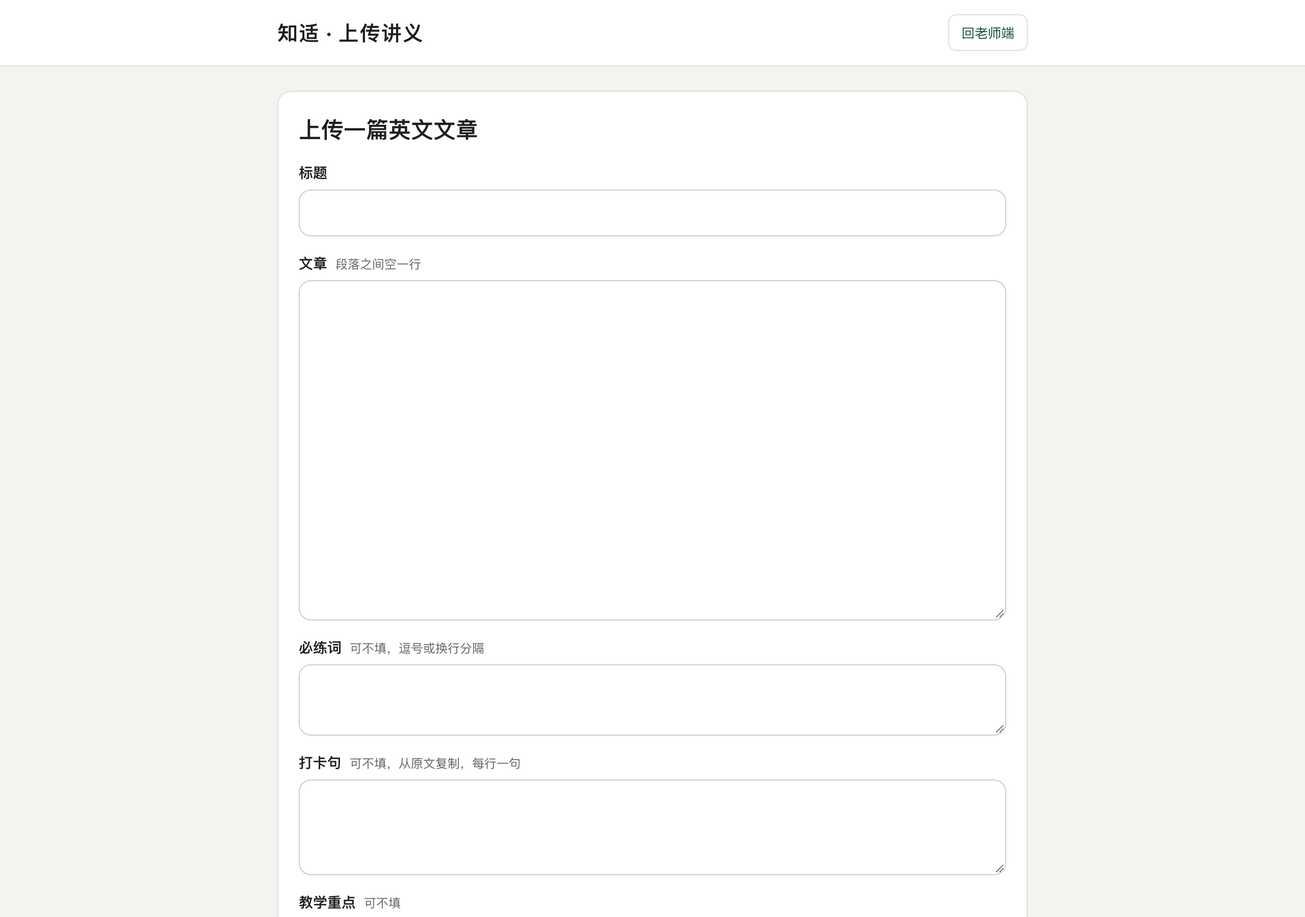
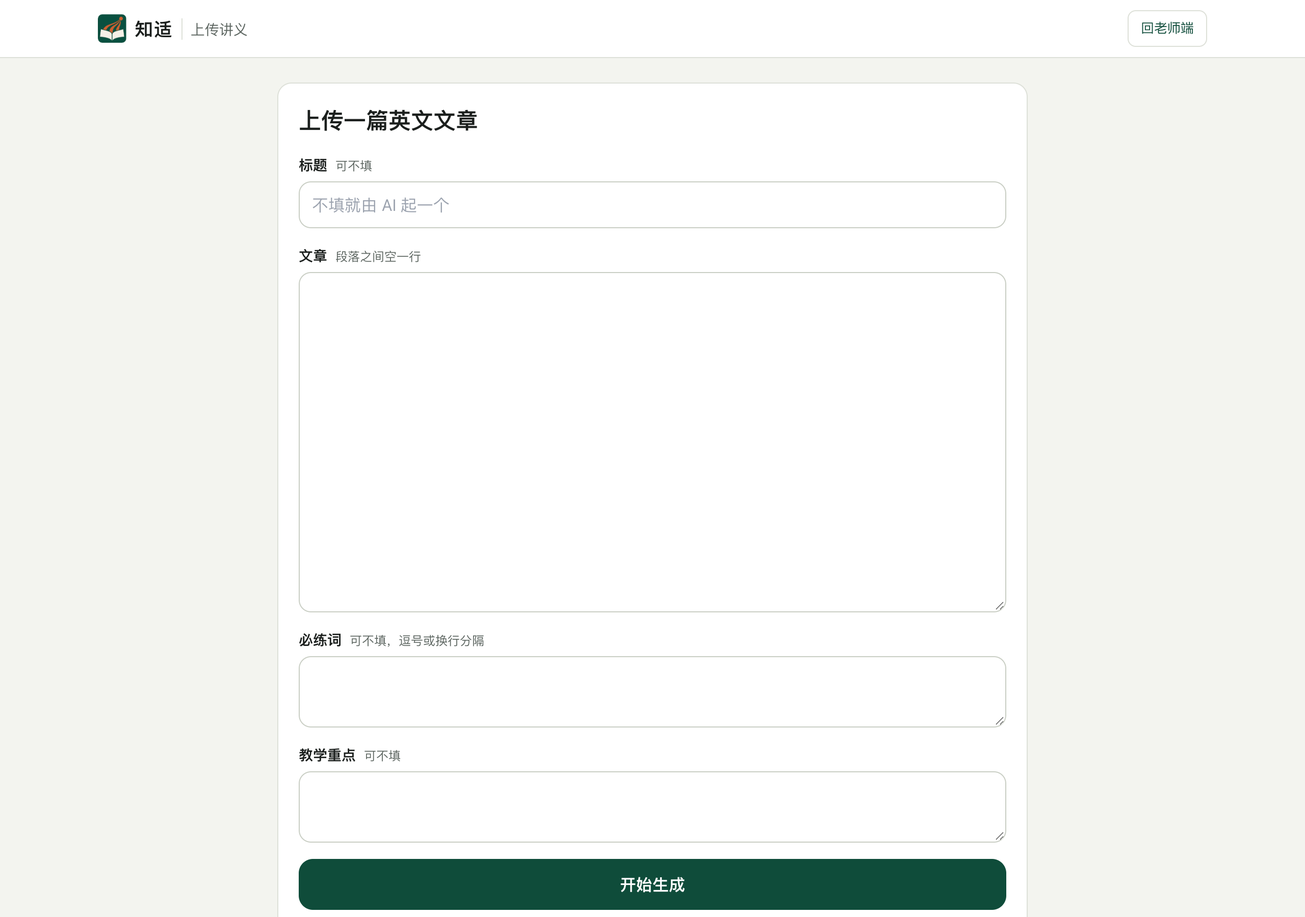
Article structure for #20: what each paragraph does (skim) and moves to borrow (writing)
- Handout gets an optional `structure` block (paragraph role + one-line summary, writing moves with verbatim example quotes), AI-drafted in pipeline/ai-edits.json via a new `handout` edit target that may only touch `structure`
- Validator: paragraphs match the article, every example quote is verbatim from its sentence, no grammar terms
- Skim: after all gist questions are right, 「这篇文章是怎么写的」 shows the skeleton (提出观点 → 让步 → 反驳 → 给理由) and one line per paragraph; shown only after answering because the summaries give the gists away
- Writing: 「可以借的写法」 with three moves and their original sentences, above the text box
- Both labelled AI 起草，供参考; only the demo handout has it
- Home: the tagline's last words stay on one line on phones
- Screens 06/07/09 retaken, new 10; docs, teammate spot-check list, log

diff --git a/tests/structure.test.ts b/tests/structure.test.ts
@@ -1,0 +1,64 @@
+// 文章是怎么写的 + 可以借的写法（issue #20）：讲义的 structure 块，AI 起草，套用和校验规则
+import { describe, expect, it } from 'vitest'
+import socialMedia from '../data/handouts/social-media.json'
+import { applyHumanEdits } from '../pipeline/human-edits'
+import { validateHandout } from '../pipeline/validate'
+import { Handout } from '../shared/schema'
+import { miniHandout } from './fixtures/mini-handout'
+
+const AI = { by: 'llm', model: 'claude-opus-5-5', reviewedBy: 'agent 复核' } as const
+const clone = () => JSON.parse(JSON.stringify(miniHandout)) as typeof miniHandout
+const errorsOf = (h: unknown) => validateHandout(h).filter((i) => i.level === 'error').map((i) => i.message)
+const structure = {
+  paragraphs: [
+    { n: 1, role: '提出观点', summary: '有人想禁手机，但全面禁令可能适得其反' },
+    { n: 2, role: '给理由', summary: '证据不足，不如教学生用好手机' },
+  ],
+  moves: [{ name: '让步再反驳', how: '先说对方的担心，再用“Yet”转回你的看法。', examples: [{ sentenceId: 'S03', quote: 'Yet, pending clearer evidence' }] }],
+}
+const withStructure = (value: unknown) => {
+  const h = clone()
+  const log = applyHumanEdits(h, [{ target: 'handout', id: 'mini-phones', field: 'structure', value, by: 'Claude' }], AI)
+  return { h, log }
+}
+
+describe('文章结构（structure）', () => {
+  it('合格的结构通过校验，整块记上 AI 来源', () => {
+    const { h, log } = withStructure(structure)
+    expect(log).toEqual(['已修改：handout mini-phones structure（Claude）'])
+    expect(h.structure).toEqual({ ...structure, provenance: AI })
+    expect(errorsOf(h)).toEqual([])
+  })
+
+  it('例句不是那一句的原话、句子不存在、段落和原文对不上、出现语法术语，都报错', () => {
+    const bad = {
+      paragraphs: [{ n: 1, role: '提出观点', summary: '主语是禁令' }],
+      moves: [{ name: '让步再反驳', how: '先让步', examples: [{ sentenceId: 'S03', quote: 'Yet pending clearer evidence' }, { sentenceId: 'S99', quote: 'Yet' }] }],
+    }
+    const errs = errorsOf(withStructure(bad).h).join('\n')
+    expect(errs).toMatch(/例句不是 S03 的原话：Yet pending clearer evidence/)
+    expect(errs).toMatch(/例句 S99 不存在/)
+    expect(errs).toMatch(/段落对不上原文：结构里是 1，原文是 1,2/)
+    expect(errs).toMatch(/文章结构里出现语法术语「主语」/)
+  })
+
+  it('讲义本身只能改 structure；讲义 id 不对就找不到', () => {
+    const h = clone()
+    const log = applyHumanEdits(h, [
+      { target: 'handout', id: 'mini-phones', field: 'title', value: '改掉标题', by: 'Claude' },
+      { target: 'handout', id: 'other', field: 'structure', value: structure, by: 'Claude' },
+    ])
+    expect(log[0]).toMatch(/^拒绝/)
+    expect(log[1]).toMatch(/^未找到/)
+    expect(h.title).toBe(miniHandout.title)
+    expect(h.structure).toBeUndefined()
+  })
+
+  it('演示讲义：每段都有作用和概括，写法的例句都是原话', () => {
+    const real = Handout.parse(socialMedia)
+    expect(real.structure?.paragraphs.map((p) => p.n)).toEqual([1, 2, 3, 4, 5, 6])
+    expect(real.structure?.moves.length).toBeGreaterThan(0)
+    expect(real.structure?.provenance).toEqual(AI)
+    expect(validateHandout(real).filter((i) => i.where === 'structure')).toEqual([]) // 其他出处校验要老师讲义原文，这里只看结构
+  })
+})

diff --git a/src/pages/student/Skim.tsx b/src/pages/student/Skim.tsx
@@ -2,8 +2,9 @@
 // 先通读全文（老师 Day 1：「请快速通读全文」），读完再答每段一道引导问题。选项可以随便改，全部选好后一起提交；
 // 提交后答对的锁定，答错一次，在题目下面给出这一段原文并标出主题句；再错给英文要点。错题换个答案再提交。
 // 电脑上答题时左边是全文、右边是题目，方便对照；主题句直接在左边的全文里高亮。
+// 全部答对后给「这篇文章是怎么写的」（每段的作用，有 structure 的讲义才有；概括会透露段意，所以答完才给）。
 import { useEffect, useMemo, useRef, useState } from 'react'
-import type { Handout, Paragraph, Sentence } from '../../../shared/schema'
+import type { ArticleStructure, Handout, Paragraph, Sentence } from '../../../shared/schema'
 import type { StudentState } from '../../engine/types'
 import { Choices, Icon, Pill, btn, card, serifText } from '../../components/ui'
 import type { Act } from '../../lib/store'
@@ -166,9 +167,12 @@ export function Skim({ h, state, act, onNext }: { h: Handout; state: StudentStat
         })}
 
         {open.length === 0 ? (
-          <button type="button" className={btn.primary} onClick={onNext}>
-            去练我的生词
-          </button>
+          <>
+            {h.structure && <StructureMap s={h.structure} />}
+            <button type="button" className={btn.primary} onClick={onNext}>
+              去练我的生词
+            </button>
+          </>
         ) : (
           <>
             <button type="button" className={btn.primary} disabled={left > 0} onClick={submit}>
@@ -179,6 +183,38 @@ export function Skim({ h, state, act, onNext }: { h: Handout; state: StudentStat
         )}
       </div>
     </div>
+  )
+}
+
+// 这篇文章是怎么写的：上面一行是整篇的骨架（相邻作用相同的段合成一步），下面按段竖着排，每段的作用和一句概括
+function StructureMap({ s }: { s: ArticleStructure }) {
+  const skeleton = s.paragraphs.map((p) => p.role).filter((r, i, all) => r !== all[i - 1])
+  return (
+    <section className={`${card} flex flex-col gap-3 p-4`}>
+      <div className="flex flex-wrap items-center gap-2">
+        <h2 className="m-0 text-[16px] font-bold">这篇文章是怎么写的</h2>
+        <Pill>AI 起草，供参考</Pill>
+      </div>
+      <p className="m-0 text-[15px] font-semibold text-primary">{skeleton.join(' → ')}</p>
+      <ol className="m-0 flex list-none flex-col p-0">
+        {s.paragraphs.map((p, i) => (
+          <li key={p.n} className="flex gap-3">
+            <span aria-hidden="true" className="flex w-2.5 shrink-0 flex-col items-center">
+              <span className="mt-[7px] h-2.5 w-2.5 rounded-full bg-primary" />
+              {i < s.paragraphs.length - 1 && <span className="w-px flex-1 bg-line-strong" />}
+            </span>
+            <span className="flex flex-col gap-0.5 pb-3">
+              <span className="text-[14px]">
+                <span className="font-semibold">第 {p.n} 段</span>
+                <span className="ml-2 font-semibold text-primary">{p.role}</span>
+              </span>
+              <span className="text-[14px] leading-relaxed text-ink2">{p.summary}</span>
+            </span>
+          </li>
+        ))}
+      </ol>
+      {s.moves.length > 0 && <span className="text-[13px] text-muted">到「写作」那一步，还有原文里可以借的写法。</span>}
+    </section>
   )
 }
 

diff --git a/pipeline/human-edits.ts b/pipeline/human-edits.ts
@@ -6,9 +6,9 @@ import type { Handout, Provenance } from '../shared/schema'
 import { patternFor } from './text-utils'
 
 export const HumanEdit = z.object({
-  target: z.enum(['sentence', 'paragraph', 'word', 'expression']),
-  id: z.string(), // 句子 S24 / 段落 2 / 词 lemma / 表达 E09
-  field: z.string(), // 点号路径，如 ladder.l1、question、zh、guess、gist、gistEn；remove 表示删掉这一条
+  target: z.enum(['sentence', 'paragraph', 'word', 'expression', 'handout']),
+  id: z.string(), // 句子 S24 / 段落 2 / 词 lemma / 表达 E09 / 讲义 id（handout 只能改 structure）
+  field: z.string(), // 点号路径，如 ladder.l1、question、zh、guess、gist、gistEn、structure；remove 表示删掉这一条
   value: z.unknown(),
   by: z.string(), // 谁改的
   note: z.string().optional(),
@@ -52,7 +52,9 @@ export function applyHumanEdits(h: Handout, edits: HumanEdit[], prov?: Provenanc
       continue
     }
     const obj: Record<string, unknown> | undefined =
-      e.target === 'sentence'
+      e.target === 'handout'
+        ? (e.id === h.id ? (h as unknown as Record<string, unknown>) : undefined)
+        : e.target === 'sentence'
         ? (h.sentences.find((x) => x.id === e.id) as unknown as Record<string, unknown>)
         : e.target === 'paragraph'
           ? (h.paragraphs.find((x) => String(x.n) === e.id) as unknown as Record<string, unknown>)
@@ -63,17 +65,17 @@ export function applyHumanEdits(h: Handout, edits: HumanEdit[], prov?: Provenanc
       log.push(`未找到：${label}（${e.by}）`)
       continue
     }
-    // 句子的 text 是原文，不能改；表达的 text 是我们整理的写法，可以改（改了要重新生成匹配规则）
-    if ((e.field === 'text' && e.target !== 'expression') || e.field === 'id') {
+    // 句子的 text 是原文，不能改；表达的 text 是我们整理的写法，可以改（改了要重新生成匹配规则）。讲义本身只能改 structure
+    const top = e.field.split('.')[0]
+    if ((e.field === 'text' && e.target !== 'expression') || e.field === 'id' || (e.target === 'handout' && top !== 'structure')) {
       log.push(`拒绝：${label}，原文和编号不能改（${e.by}）`)
       continue
     }
     setPath(obj, e.field, e.value)
     if (e.target === 'expression' && e.field === 'text') obj.pattern = patternFor(String(e.value))
-    // 被改动的那一块记上「人工」来源；整块新写的题（如 guess）、拆句（breakdown）原来没有来源，也补上
-    const top = e.field.split('.')[0]
+    // 被改动的那一块记上「人工」来源；整块新写的题（如 guess）、拆句（breakdown）、文章结构（structure）原来没有来源，也补上
     const block = obj[top]
-    if (block && typeof block === 'object' && ('provenance' in (block as object) || 'prompt' in (block as object) || top === 'breakdown')) (block as { provenance: Provenance }).provenance = human
+    if (block && typeof block === 'object' && ('provenance' in (block as object) || 'prompt' in (block as object) || top === 'breakdown' || top === 'structure')) (block as { provenance: Provenance }).provenance = human
     if (e.target === 'paragraph') (obj as { provenance: Provenance }).provenance = human
     log.push(`已修改：${label}（${e.by}${e.note ? `：${e.note}` : ''}）`)
   }

diff --git a/src/pages/student/Writing.tsx b/src/pages/student/Writing.tsx
@@ -2,10 +2,11 @@
 // 先用规则逐个显示「用上了 / 还没用上」，再请 AI 判断用得对不对、指出最多 3 处可能的语法问题；
 // AI 只说对不对、引用原文例句，语法问题只引你写的几个词、说是哪一类，不替你改写。
 // 写的句子存在本机（按讲义和学生），切到别的步骤再回来还在；检查结果不存。
+// 讲义有 structure 时，写之前给「可以借的写法」：怎么写 + 原文里的例句（原话）。
 import { useRef, useState } from 'react'
 import type { Handout } from '../../../shared/schema'
 import { expressionUsed } from '../../engine'
-import { btn, card } from '../../components/ui'
+import { Pill, btn, card } from '../../components/ui'
 import { readLS, writeLS, type Act } from '../../lib/store'
 import { checkWriting, exampleOf, type CheckOutput } from '../../lib/writing'
 
@@ -59,6 +60,27 @@ export function Writing({ h, sid, ids, act, onNext }: { h: Handout; sid: string;
           </>
         )}
       </div>
+
+      {!!h.structure?.moves.length && (
+        <section className={`${card} flex flex-col gap-3 px-4 py-3.5`}>
+          <div className="flex flex-wrap items-center gap-2">
+            <h2 className="m-0 text-[15px] font-bold">可以借的写法</h2>
+            <Pill>AI 起草，供参考</Pill>
+          </div>
+          {h.structure.moves.map((m) => (
+            <div key={m.name} className="flex flex-col gap-1 border-t border-line-soft pt-3">
+              <span className="text-[15px] font-semibold">{m.name}</span>
+              <span className="text-[14px] leading-relaxed text-ink2">{m.how}</span>
+              {m.examples.map((x) => (
+                <span key={x.sentenceId} className="font-serif text-[15px] leading-relaxed">
+                  “{x.quote}”
+                  <span className="ml-1.5 whitespace-nowrap font-sans text-[12px] text-muted">原文第 {h.sentences.find((s) => s.id === x.sentenceId)?.paragraph} 段</span>
+                </span>
+              ))}
+            </div>
+          ))}
+        </section>
+      )}
 
       <label htmlFor="essay" className="text-[14px] font-semibold">
         你的句子

diff --git a/pipeline/validate.ts b/pipeline/validate.ts
@@ -92,6 +92,26 @@ export function validateHandout(input: unknown, rawByDay?: Record<number, string
     checkQuestion(`${where} gist`, p.gist)
   }
 
+  if (h.structure) {
+    // 每段一条、和原文段落对上；写法的例句必须是那一句的原话；学生端文案不出现语法术语
+    const where = 'structure'
+    const nums = [...new Set(h.sentences.map((s) => s.paragraph))].sort((a, b) => a - b)
+    const got = h.structure.paragraphs.map((p) => p.n)
+    if (got.join(',') !== nums.join(',')) err(where, `段落对不上原文：结构里是 ${got.join(',')}，原文是 ${nums.join(',')}`)
+    for (const p of h.structure.paragraphs) if (!p.role.trim() || !p.summary.trim()) err(where, `第 ${p.n} 段的作用或概括是空的`)
+    for (const m of h.structure.moves) {
+      for (const x of m.examples) {
+        const s = sentenceById.get(x.sentenceId)
+        if (!s) err(where, `写法「${m.name}」的例句 ${x.sentenceId} 不存在`)
+        else if (!x.quote.trim() || !s.text.includes(x.quote)) err(where, `写法「${m.name}」的例句不是 ${x.sentenceId} 的原话：${x.quote}`)
+      }
+    }
+    const term = hasGrammarTerm(
+      [...h.structure.paragraphs.flatMap((p) => [p.role, p.summary]), ...h.structure.moves.flatMap((m) => [m.name, m.how])].join(' '),
+    )
+    if (term) err(where, `文章结构里出现语法术语「${term}」`)
+  }
+
   for (const w of h.words) {
     const where = `word ${w.lemma}`
     for (const id of w.sentenceIds) {

diff --git a/tests/vocab.test.ts b/tests/vocab.test.ts
@@ -47,13 +47,18 @@ describe('真实讲义：每个词都有词性、英文释义和先猜一猜', (
 })
 
 describe('AI 补全（pipeline/ai-edits.json）', () => {
-  it('词只补 pos / en / guess，句子只补 breakdown（梯子第 2、3 步），署名和备注如实', () => {
+  it('词只补 pos / en / guess，句子只补 breakdown（梯子第 2、3 步），讲义只补 structure（文章结构），署名和备注如实', () => {
     for (const e of ai) {
       // 署名写清楚是 AI：Claude 起草、agent 复核，词汇部分又经 ChatGPT 复核；都还没人工抽查
       expect(e.by).toMatch(/^Claude 起草 \+ agent 复核.*（待队友 2 抽查）$/)
       if (e.target === 'sentence') {
         expect(e.field).toBe('breakdown')
         expect(e.note).toMatch(/^10-02 梯子第 2、3 步（issue #2 #3）/)
+        continue
+      }
+      if (e.target === 'handout') {
+        expect(e.field).toBe('structure')
+        expect(e.note).toMatch(/^10-02 文章是怎么写的.*（issue #20）$/)
         continue
       }
       expect(e.target).toBe('word')

diff --git a/shared/schema.ts b/shared/schema.ts
@@ -117,6 +117,20 @@ export const Expression = z.object({
 })
 export type Expression = z.infer<typeof Expression>
 
+// 文章是怎么写的（#20）：每段在全文里起什么作用，加上写作时可以借的写法（例句是原文原话）。AI 起草，只有演示讲义有
+export const ArticleStructure = z.object({
+  paragraphs: z.array(z.object({ n: z.number().int().min(1), role: z.string(), summary: z.string() })).min(1),
+  moves: z.array(
+    z.object({
+      name: z.string(),
+      how: z.string(),
+      examples: z.array(z.object({ sentenceId: z.string(), quote: z.string() })).min(1),
+    }),
+  ),
+  provenance: Provenance,
+})
+export type ArticleStructure = z.infer<typeof ArticleStructure>
+
 export const Handout = z.object({
   id: z.string(),
   title: z.string(),
@@ -129,6 +143,7 @@ export const Handout = z.object({
     prompt: z.string(),
     requiredExpressionIds: z.array(z.string()),
   }),
+  structure: ArticleStructure.optional(),
 })
 export type Handout = z.infer<typeof Handout>
 

diff --git a/src/pages/Home.tsx b/src/pages/Home.tsx
@@ -55,7 +55,9 @@ export default function Home() {
             <p className="m-0 text-[16px] leading-relaxed text-ink2 lg:text-[18px]">
               知适是一个读英文外刊讲义的工具：学生读老师的讲义，卡住时一步一步给提示；老师看到全班卡在哪、今天该点评谁。
             </p>
-            <p className="m-0 text-[14px] leading-relaxed text-muted">同一份讲义，原文一字不改，每个人拿到写给自己的梯子。</p>
+            <p className="m-0 text-[14px] leading-relaxed text-muted">
+              同一份讲义，原文一字不改，每个人拿到<span className="whitespace-nowrap">写给自己的梯子。</span>
+            </p>
             <div className="grid gap-3 pt-2 sm:grid-cols-2">
               <a href={demo ? '#/judge' : '#/student'} className={`${entry} border-transparent bg-primary text-white hover:bg-primary-hover`}>
                 <span className={entryName}>

diff --git a/AI_USAGE.md b/AI_USAGE.md
@@ -6,7 +6,7 @@
 
 | 工具 | 用途 | 范围 |
 |---|---|---|
-| Claude Code（Anthropic） | 写代码和测试；做方案调研和评审（模拟评委按评分标准打分）；画界面设计稿；对讲义内容做程序体检和独立复核；起草路演材料初稿；起草演示讲义词卡上 35 个词的词性和英文释义、34 道「先猜一猜」题，以及 21 架读懂梯子新的第 2 步（拆开：每一块的标签和说明）、第 3 步（译文）（10-02，见下文「人工做了什么」）；编写词汇卡里 5 个假词各一句例句和两个猜词选项（10-03）；按 `docs/AI对比截图.md` 的流程，在队长登录的浏览器里向豆包、Kimi、DeepSeek 发同样的两段话并截图、核对（10-02） | 大部分代码由 Claude Code 编写。产品方向、教学立场和取舍由团队决定，具体决策见 [MEMORY_LOG.md](MEMORY_LOG.md)，例如「先读懂意思，语法以后慢慢学」由队长提出，「材料由老师上传」「题目改成英文」「上传不设口令」由团队决定 |
+| Claude Code（Anthropic） | 写代码和测试；做方案调研和评审（模拟评委按评分标准打分）；画界面设计稿；对讲义内容做程序体检和独立复核；起草路演材料初稿；起草演示讲义词卡上 35 个词的词性和英文释义、34 道「先猜一猜」题，以及 21 架读懂梯子新的第 2 步（拆开：每一块的标签和说明）、第 3 步（译文）（10-02，见下文「人工做了什么」）；编写词汇卡里 5 个假词各一句例句和两个猜词选项（10-03）；起草演示讲义的「这篇文章是怎么写的」（6 段各自的作用和一句概括）和写作页「可以借的写法」（3 种写法，例句摘原文原话）（10-03）；按 `docs/AI对比截图.md` 的流程，在队长登录的浏览器里向豆包、Kimi、DeepSeek 发同样的两段话并截图、核对（10-02） | 大部分代码由 Claude Code 编写。产品方向、教学立场和取舍由团队决定，具体决策见 [MEMORY_LOG.md](MEMORY_LOG.md)，例如「先读懂意思，语法以后慢慢学」由队长提出，「材料由老师上传」「题目改成英文」「上传不设口令」由团队决定 |
 | ChatGPT（OpenAI） | 队友 2 校对讲义内容时，用它逐条复核模型起草的梯子、题目和注释；队长另请它复核 Claude 起草的词卡内容和梯子第 2、3 步（10-02；意见由 Claude 逐条判断，采纳大部分，和老师原文或第 1 步冲突的没采纳）；展位海报的插图 | 复核意见和 Claude 的意见有分歧时，由独立评审逐条裁定，最后由队长确认（见 `docs/校对复核.csv`）。海报提示词见 `docs/海报提示词.md` |
 | 飞书问卷 AI | 朋友试用问卷：按 `docs/朋友试用.md` 里的题目原文生成飞书问卷表单 | 只用来生成表单，题目不是它出的；生成后逐题对照题目原文核对过（MEMORY_LOG 10-02 12:00） |
 | Upscayl | 用 AI 把 logo 图片放大 4 倍（logo 是从队友提供的 logo 原图裁出的 `docs/assets/logo/logo-1024.png`） | 只放大分辨率，不改画面内容。海报方案里也写了用它放大 ChatGPT 画的插画（`docs/海报提示词.md`），最终的易拉宝是团队在 Canva 排的纯文字版，没有用插画 |
@@ -27,6 +27,7 @@
 - 演示讲义里模型起草的 121 条内容，由队友 2 逐条校对（借助 ChatGPT 复核），程序按规则体检，分歧交独立评审裁定，最后队长确认。结果以 231 条人工修订保存在 `pipeline/human-edits.json`，每次重新入库都会自动套用。其中题目的英文版由 Claude Code 按校对定稿的中文版翻译，再经独立复核，队长确认后入库。
 - **词卡的词性、英文释义和猜词题（10-02 补）还没经人工校对**：15 个核心词的词性和英文释义照老师 Day 1「核心词汇表」；其余 35 个词的词性和英文释义，以及 34 道新加的「先猜一猜」题（原有 16 道是队友 2 校对过的），由 Claude 起草，经几个独立 agent 核对，还没有人看过，队友 2 计划 10-03 抽查。Claude 起草的这些内容存在 `pipeline/ai-edits.json`，每次重新入库都会套用，在人工修订之前，所以人工改动会覆盖它。
 - **读懂梯子新的第 2、3 步（10-02 补）还没经人工校对**：演示讲义 21 架梯子的「拆开：每一块在说什么」（每块是原句原话，配一个大白话标签，有的再加一句简短的中文说明）和「译文」，由 Claude 起草，经几个独立 agent 和一个脚本核对（每块是不是原句里一字不差的片段、标签是不是规定的 7 个之一、有没有语法术语），还没有人看过；队长另请 ChatGPT 复核过（10-02，采纳大部分），ChatGPT 也是 AI，所以仍算没人工校对；队友 2 计划 10-03 和词卡一起抽查。和词卡补的内容一样存在 `pipeline/ai-edits.json`，在人工修订之前套用。第 1 步和难词中文是之前人工校对过的。
+- **「这篇文章是怎么写的」和「可以借的写法」（10-03，issue #20）由 Claude 起草，还没人工校对**：几个独立 agent 核对过段落作用和概括是否符合原文、例句是不是原文一字不差的片段；校验器也会检查例句是原话、段落对得上、没有语法术语。存在 `pipeline/ai-edits.json`（在人工修订之前套用），学生端标着「AI 起草，供参考」；队友 2 计划 10-03 一起抽查。只有演示讲义有，老师上传的文章没有。
 - **假词卡的例句和选项（10-03）由 Claude 编写，还没人看过**：本来就是编的、不在原文里（`src/engine/index.ts` 的 `FAKE_CARDS`），学生标完认识 / 不认识后会被告知。
 - 朋友试用问卷里两道翻译题（三步小测）由 Claude 按 `docs/三步小测.md` 的评分要点先打分，又让一个不看已有分数的 agent 独立盲评，前 8 份的 16 个分数完全一致（第 9 份两题都写「看不懂」，记 0 分）；队友抽查尚未完成（见 `docs/试用结果.md`）。
 - 讲义里的英文释义有两处语病（ingenious、cyberbully），经队长决定、查词典核对后改正。

diff --git a/docs/队友任务清单.md b/docs/队友任务清单.md
@@ -49,7 +49,7 @@
 - [ ] **PPT**：队友 1 按 [路演PPT大纲.md](路演PPT大纲.md) 做，提交时要交（PPT / PDF / HTML 都可以）。
 - [ ] **问卷收口**：飞书问卷（队长账号）停止收集，按最终结果更新 `docs/试用结果.md`，PPT、展位话术、视频里用到的数字跟着改。
 - [ ] **三步小测抽查**（队友 2）：抽查 Claude 按 [三步小测.md](三步小测.md) 评分要点打的分（`docs/试用结果.md` 第四节）；抽查完告诉 Claude，把各处写的「队友抽查尚未完成」改掉。
-- [ ] **词卡和梯子抽查**（队友 2）：10-02 词卡补了词性和英文释义，每个词都有「先猜一猜」。15 个核心词的词性和英文释义照老师 Day 1「核心词汇表」；**其余 35 个词的词性和英文释义、新加的 34 道猜词题（含 legislator、ingenious、draconian、cyberbully 这 4 个核心词的）**是 Claude 起草的，几个独立 agent 核对过，还没人看过，都在 `pipeline/ai-edits.json`。**21 架读懂梯子新的第 2、3 步**（「拆开：每一块在说什么」和「整句中文意思」）也一样：Claude 起草，agent 和脚本核对过（每块是不是原句原话、标签是不是规定的 7 个、有没有语法术语），也在 `pipeline/ai-edits.json`，队长已另请 ChatGPT 复核过（采纳了大部分，但它也是 AI，仍要人工抽查）。抽查：词性对不对；英文释义是不是像老师词汇表那样短、高中生看得懂；猜词题的正确选项是不是本文里的意思，另一个选项会不会也说得通；梯子每一块的标签和说明对不对，整句中文意思对不对、看得懂。要改的照校对表的老办法：让 Claude 导出校对表（`npm run review`；表里已经显示词性，Claude 起草的英文标成「英文（AI 起草，待抽查）」），在「结论 / 改成」两列填好发回，Claude 写进 `pipeline/human-edits.json`（每次入库在 AI 补全之后套用，会覆盖它）。词性要改的写在「备注」里交给 Claude（导入脚本不会把词性写回去）。梯子第 2、3 步：校对表里显示的已经是新的「拆开」「整句中文意思」（标着「AI 起草，待抽查」）；要改的写在「备注」里，或直接告诉 Claude（导入脚本不会把它们写回去）。英文释义要改的也写在「备注」里。抽查完告诉 Claude，把各处写的「还没人工校对」改成实际情况，比如「队友 2 抽查了 N 条，改了 M 条」，不要写成逐条校对。
+- [ ] **词卡和梯子抽查**（队友 2）：10-02 词卡补了词性和英文释义，每个词都有「先猜一猜」。15 个核心词的词性和英文释义照老师 Day 1「核心词汇表」；**其余 35 个词的词性和英文释义、新加的 34 道猜词题（含 legislator、ingenious、draconian、cyberbully 这 4 个核心词的）**是 Claude 起草的，几个独立 agent 核对过，还没人看过，都在 `pipeline/ai-edits.json`。**21 架读懂梯子新的第 2、3 步**（「拆开：每一块在说什么」和「译文」）也一样：Claude 起草，agent 和脚本核对过（每块是不是原句原话、标签是不是规定的 7 个、有没有语法术语），也在 `pipeline/ai-edits.json`，队长已另请 ChatGPT 复核过（采纳了大部分，但它也是 AI，仍要人工抽查）。抽查：词性对不对；英文释义是不是像老师词汇表那样短、高中生看得懂；猜词题的正确选项是不是本文里的意思，另一个选项会不会也说得通；梯子每一块的标签和说明对不对，译文对不对、看得懂。要改的照校对表的老办法：让 Claude 导出校对表（`npm run review`；表里已经显示词性，Claude 起草的英文标成「英文（AI 起草，待抽查）」），在「结论 / 改成」两列填好发回，Claude 写进 `pipeline/human-edits.json`（每次入库在 AI 补全之后套用，会覆盖它）。词性要改的写在「备注」里交给 Claude（导入脚本不会把词性写回去）。梯子第 2、3 步：校对表里显示的已经是新的「拆开」「译文」（标着「AI 起草，待抽查」）；要改的写在「备注」里，或直接告诉 Claude（导入脚本不会把它们写回去）。英文释义要改的也写在「备注」里。**文章结构（10-03，issue #20）**：粗读答完全部段意题后出现的「这篇文章是怎么写的」（6 段各自的作用和一句概括），和写作页的「可以借的写法」（3 种写法，例句摘原文原话），也是 Claude 起草、agent 核对过，在 `pipeline/ai-edits.json` 最后一条；不在校对表里，直接在网站上看，要改的告诉 Claude。抽查完告诉 Claude，把各处写的「还没人工校对」改成实际情况，比如「队友 2 抽查了 N 条，改了 M 条」，不要写成逐条校对。
 - [ ] **开场经历**（队友 1）：就是上面「写开场的真实经历」那一项，PPT 第 1 页讲稿里的【】等它来填。
 - [ ] **每人在 10-03 24:00 前兑换组委会 token 兑换码（https://tokendance.space/credits）。**
 

diff --git a/MEMORY_LOG.md b/MEMORY_LOG.md
@@ -32,6 +32,16 @@
 
 ### 2026-10-03
 
+- **issues #10–#23 四组合并 + 评审小修 + #20（00:39，队长批准做，还没部署）**：
+  - **合并**：四组分支（#14/#15/#17、#12/#13/#16/#18/#22、#10/#11/#21、#19/#23）全部合进 main，临时 worktree 和分支已删。文档冲突取两边：梯子第 3 步叫「译文」，写作那里写「指出可能的语法问题，不替你改」。
+  - **#14 假词卡**：标签和要不要先猜，都照着旁边一张不是「你在粗读时点过」的真词卡（`fakeTwin`，src/engine/index.ts），前面「要注意」那条已解决；只有点过的卡可照时标「核心词」。照着的那张不用先猜时，假词卡也不先猜，给「看意思」，点了直接说明是编的（不记作答）。
+  - **#19 语法检查**：提示里出现「改成 / 换成 / 改为 / 写成 / 应该用」就去掉提示（等于给了改法）；提示词给每类错误一个示范口气。本地后端实测：埋的 3 处错误（kids spends、ban … are、teenager）全找到，约 2 秒，没给改法。顺带试了在提示词里加「改单复数不算错」，结果「My mom blanket bans my phone」这种用错也判成对，**已撤回**；「A blanket ban on phones are」被判「用得不对」是因为后面的 are，不算误判。
+  - **#10 首页**：大白话下面加回一行浅色原标语「同一份讲义，原文一字不改，每个人拿到写给自己的梯子。」；两张入口卡片顶端对齐。
+  - **#21**：「下一届的起点」写明「（现在可以预览，还没发给下一届）」。
+  - **#20 文章结构（队长选「粗读结构图 + 写作可借的写法」）**：讲义加可选的 `structure`（shared/schema.ts `ArticleStructure`：每段的作用和一句概括 + 写法和原文例句），内容在 `pipeline/ai-edits.json` 最后一条（`target: 'handout'`，讲义本身只能改 structure）。校验器查：段落和原文对上、例句是那一句的原话、没有语法术语。粗读段意题全答对后显示「这篇文章是怎么写的」（骨架「提出观点 → 让步 → 反驳 → 给理由」+ 每段一行；概括会透露段意，所以答完才给）；写作页在表达下面显示「可以借的写法」（先摆共识再转折 / 让步再反驳 / 先说后果再举实例）。都标「AI 起草，供参考」，只有演示讲义有，上传的文章没有。已加进队友 2 的抽查清单。
+  - **其他**：校对表和校验器里的「整句中文」改成「译文」；AI_USAGE 标题兜底的说法按代码改（不合格先重写一次）。截图 06、07、09 重截，新增 10（粗读文章结构）。
+  - **还要队长定**：上传的文章要不要假词卡（例句是社交媒体话题，和别的文章对不上）；写作页「可能的语法问题」用了「语法」二字，学生端本来不出现语法术语。
+
 - **issues #14、#15、#17 词卡（00:05，队长批准做，待队长合并）**：
   - **#15**：再练一遍，或之前别处已经猜过的词，卡片不再直接显示「正确答案是」，意思盖在「看意思」后面，认识 / 不认识直接能点；在这张卡上刚猜的，照旧显示「猜对了 / 正确答案是」。程序：`guessFirst(word, seen)`（`src/engine/index.ts`），`seen` 是这张卡出现时已有的作答。
   - **#17**：精读点注释词像查词典，只显示词、词性、中文、英文；不再先猜，也不再从精读发猜词作答。`src/components/WordMeaning.tsx` 拆成 `WordGuess`（词汇卡的先猜后看）、`WordMeaning`（释义，`head` 时带词和词性）、`GuessBox`（先猜一猜的框，真词假词共用）。

diff --git a/docs/assets/screens/README.md b/docs/assets/screens/README.md
@@ -9,9 +9,10 @@
 | `03-学生词-先猜后看.jpg` | **旧版，待重截**：词汇卡片，老师核心词「先猜后看」（英文题干、中文选项）。图上还是旧样式：步骤叫「学生词」、标签是「老师必练」、没有词性（现在是「词汇」「核心词」，卡片上标了词性） | 重截后用在 PPT「学生怎么用」 |
 | `04-评委模式-你的这一份.png` | 评委答完 3 道快题后，「评委的这一份」和「同学 B 的这一份」并排；左边有「给你」便签、讲解已收起。**改版上线后要重截**：右边同学 B 的 S16 下面还有「老师的讲解：先答题，再看」占位框，现在答题前不显示老师的讲解 | **PPT 核心页**、提交平台首图 |
 | `05-老师端-示例班级.png` | 老师端：今天点评这几个人 + 卡点热力图（页面标着「示例数据」） | PPT「回响给老师」；有朋友真实数据后再换一张 |
-| `06-首页-电脑.png` | 首页（10-02 晚上重截，1440×900 两倍图）：「把讲义里的『如果』，改成『你』」，下面是「我是学生」「我是老师」按钮、「上传一篇文章 →」和「演示模式」开关（开着），右边是「如果 → 给你」对比卡 | 提交平台封面备选 |
-| `07-上传页.png` | 老师上传任意英文文章的表单 | PPT「老师怎么用」 |
+| `06-首页-电脑.png` | 首页（10-03 凌晨重截，1440×900 两倍图）：「把讲义里的『如果』，改成『你』」，下面一句大白话说清知适是什么、一行浅色原标语，再下面「我是学生」「我是老师」两张大卡片、「上传一篇文章 →」和「演示模式」开关（开着），右边是「如果 → 给你」对比卡 | 提交平台封面备选 |
+| `07-上传页.png` | 老师上传任意英文文章的表单（1280×900 两倍图）：标题可不填，不填由 AI 起一个 | PPT「老师怎么用」 |
 | `08-精读-读懂梯子.jpg` | **旧版，改版上线后要重截**：精读打卡句：梯子第 1 步「谁 → 做了什么」，2、3 步待开。图上还是旧的第 2、3 步「换成正常语序」「用简单英文说一遍」和已经去掉的「初稿已交，提示都可以打开了」；表达那几行现在开过梯子、答对或收进表达本以后会显示中文 | 重截后用在 PPT「读懂梯子」 |
-| `09-写作-表达检查.jpg` | 写作：用上本周表达，AI 只判断用得对不对、不改写 | PPT「表达链」 |
+| `09-写作-表达检查.jpg` | 写作（手机图）：用上本周表达，AI 判断用得对不对；下面「可能的语法问题」只引学生写的几个词、标出类型、提示该检查什么，不改写 | PPT「表达链」 |
+| `10-粗读-文章是怎么写的.jpg` | 粗读（手机图）：段意题全答对后出现「这篇文章是怎么写的」：骨架「提出观点 → 让步 → 反驳 → 给理由」，每段的作用和一句概括（AI 起草，供参考） | PPT「学生怎么用」或答辩时讲文章结构 |
 
 注意：01、02 的步骤条上也还是旧名「学生词」（10-02 改成「词汇」），用之前最好重截。老师端那张是示例数据，PPT 上要写明「示例」，或者等朋友试用满 5 人后换成真实数据截图。
